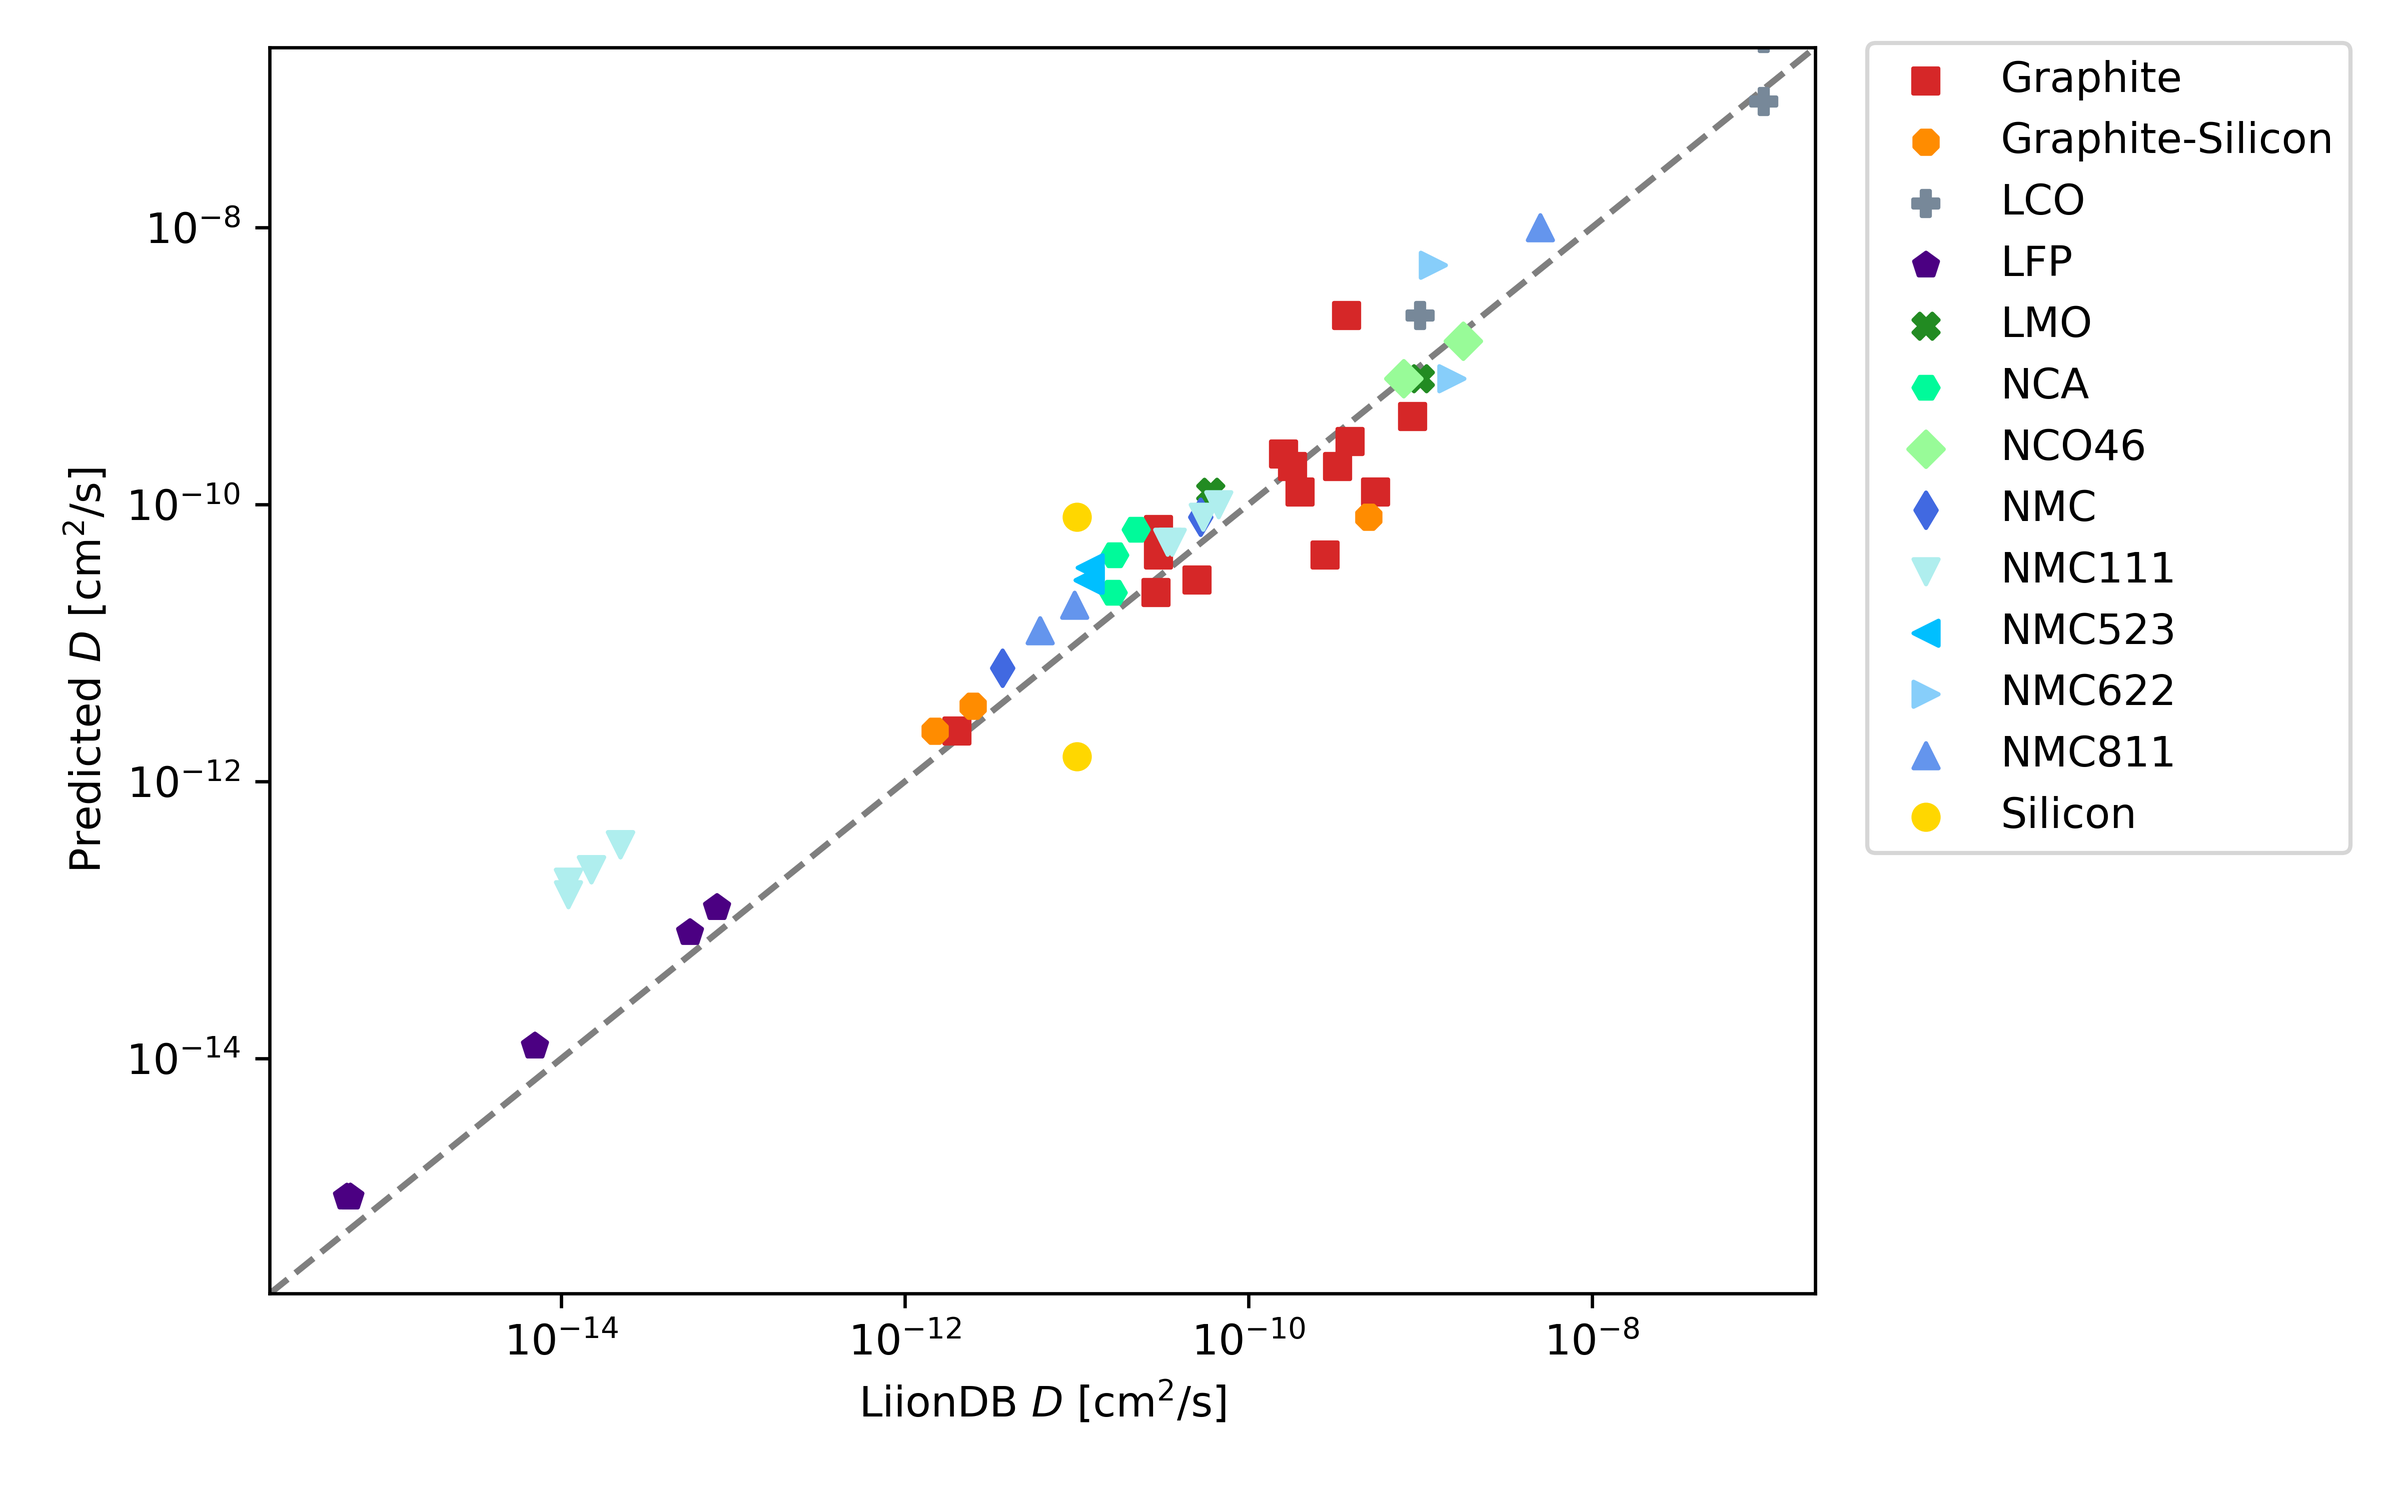
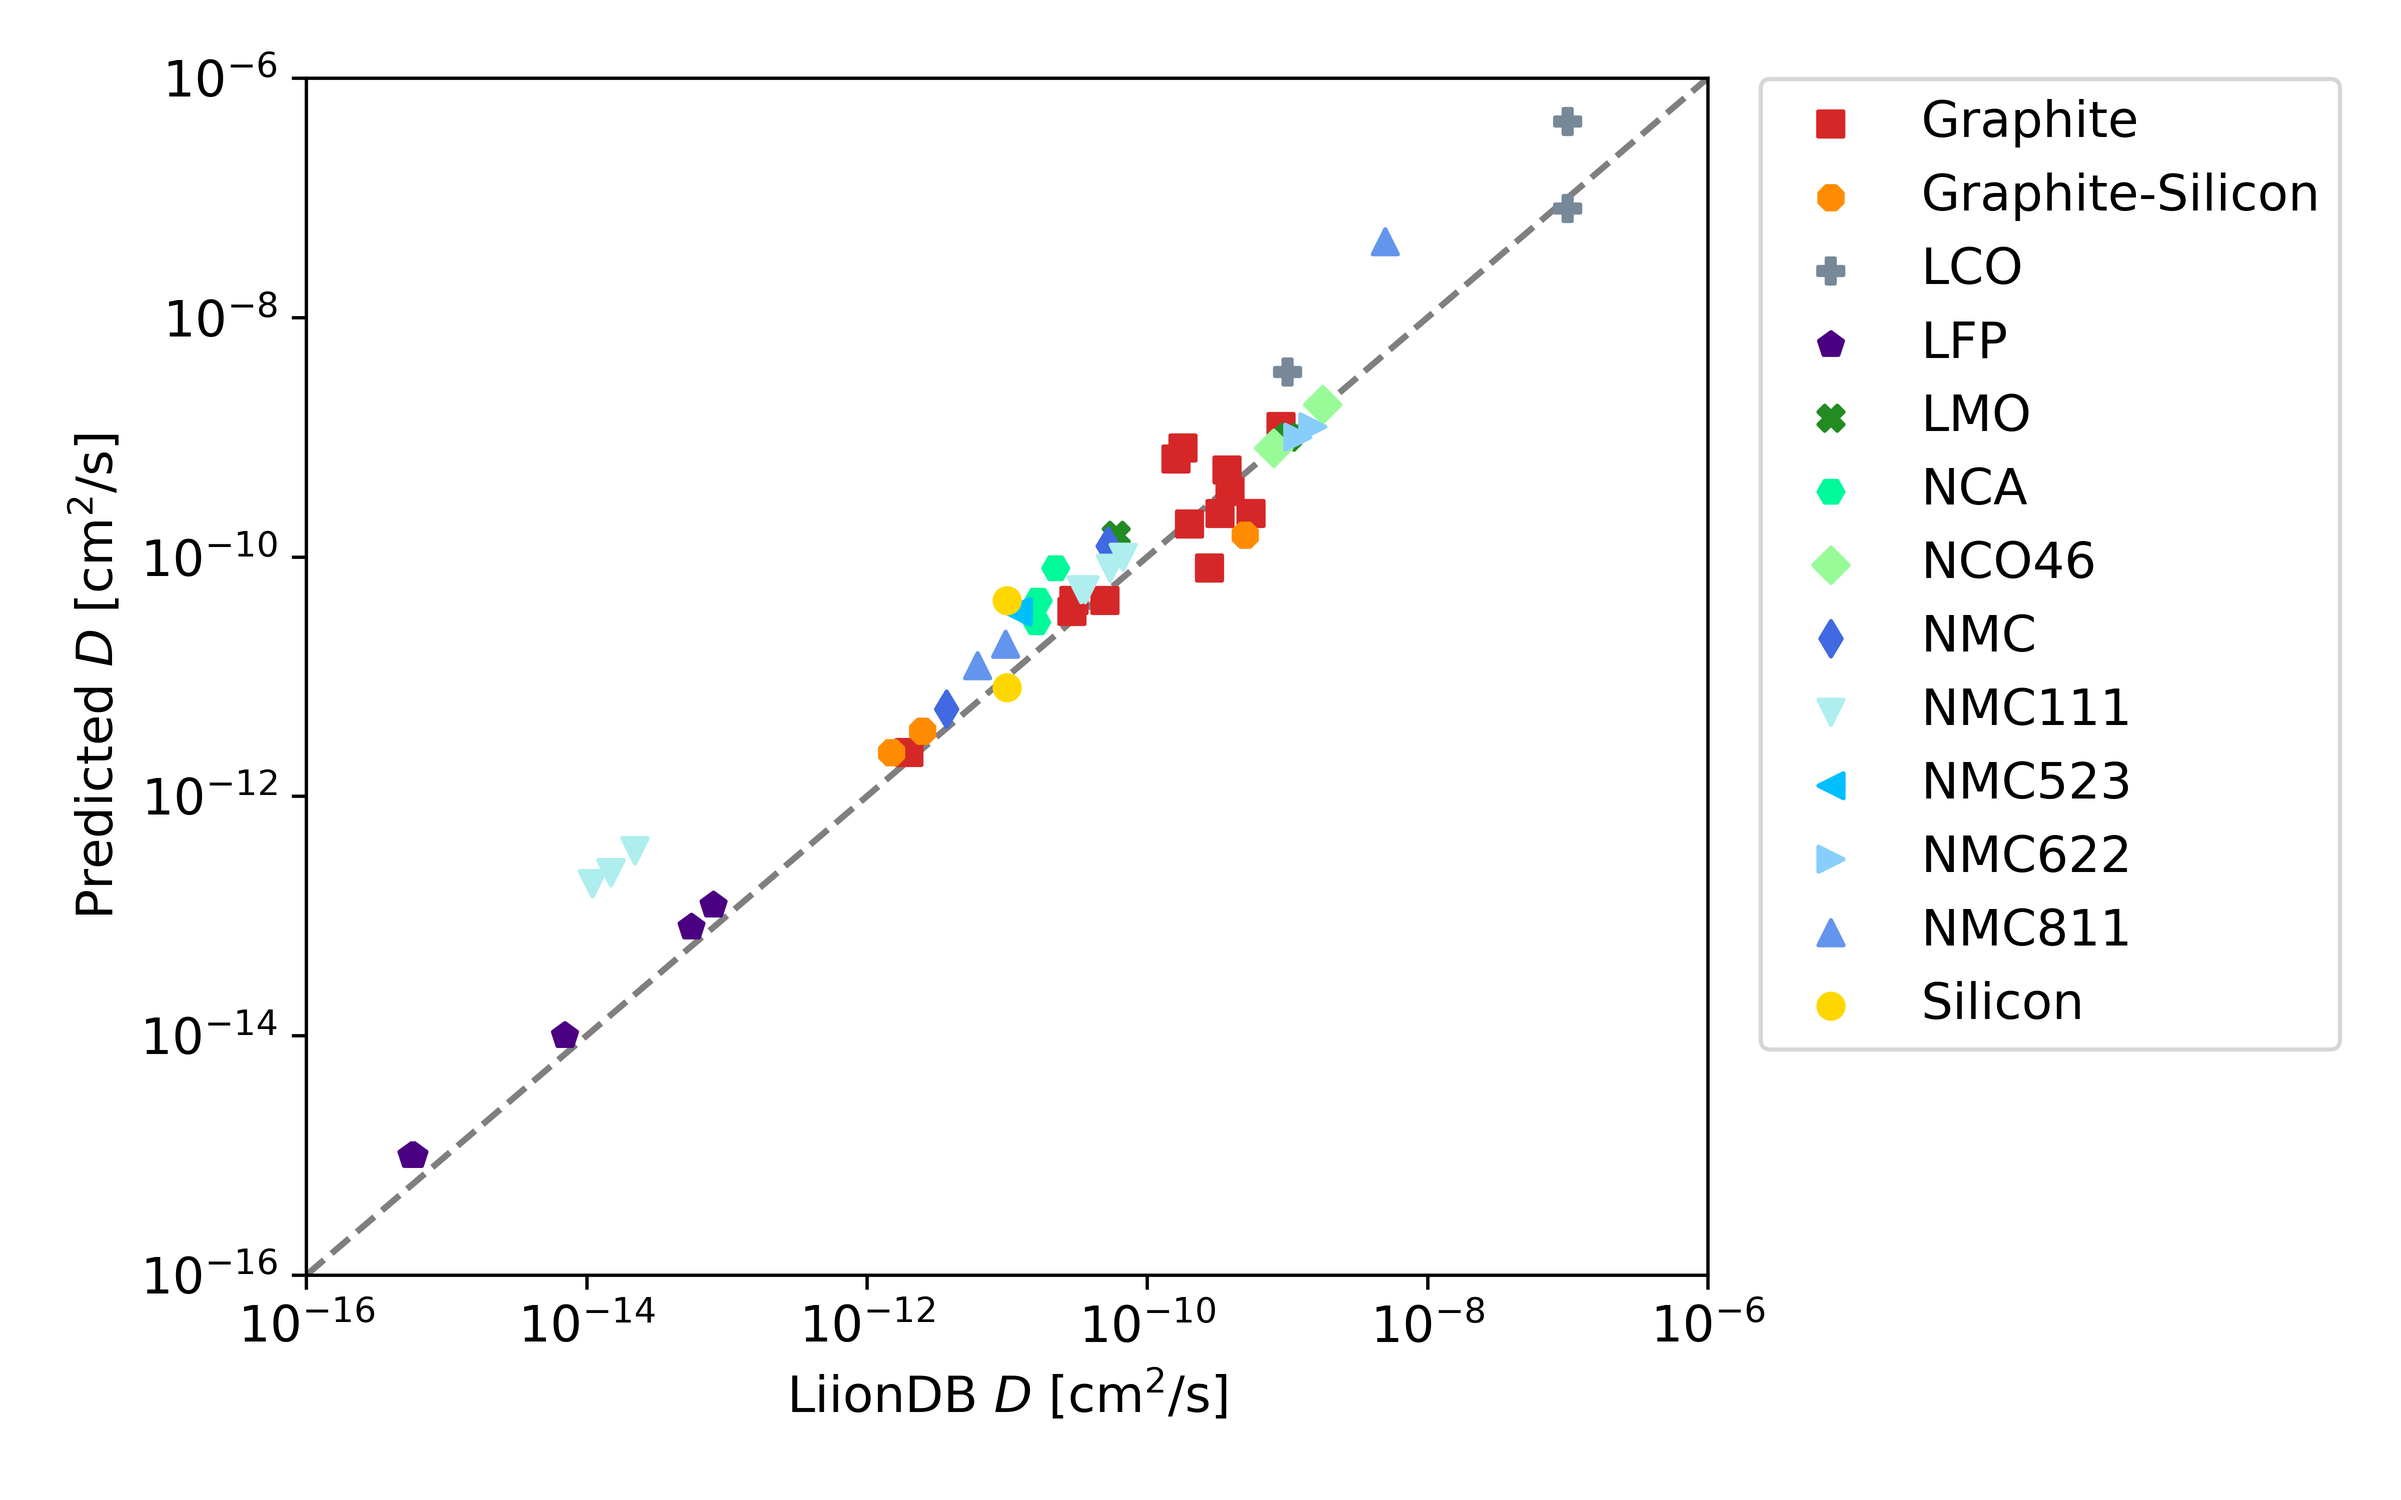
some changes in data adquisition and figures to obtain

diff --git a/api/plot.py b/api/plot.py
@@ -4,7 +4,11 @@ import glob
 import os
 import pathlib
 
+import galpynostatic as gp
+
 import matplotlib.pyplot as plt
+
+import numpy as np
 
 import pandas as pd
 
@@ -43,7 +47,9 @@ COLORS = {
 }
 
 
-def dcoeff_pred_vs_db(drange=(2e-16, 2e-7)):
+def dcoeff_pred_vs_db(drange=(1e-16, 1e-6)):
+    plt.rcParams.update({"font.size": 12})
+
     fig, ax = plt.subplots(figsize=(8, 5))
 
     df = pd.read_csv(PATH / "res" / "predictions.csv")
@@ -73,8 +79,124 @@ def dcoeff_pred_vs_db(drange=(2e-16, 2e-7)):
     fig.savefig(PATH / "res" / "predictions.png", dpi=600)
 
 
-def socmax_pred_vs_actual():
-    for fit_file in glob.glob(str(PATH / "res" / "fit-*")):
+def simulations():
+    plt.rcParams.update({"font.size": 12})
+
+    fig, axes = plt.subplots(2, 1, sharex=True, figsize=(5, 8))
+
+    for index, material, i, ax in zip(
+        ["06", "24"], ["Graphite", "LFP"], ["b", "a"], axes[::-1]
+    ):
+        df = pd.read_csv(PATH / "res" / f"_isotherm-{index}-{material}.csv")
+
+        ax.text(0.02, 1.02, f"({i}) {material}", transform=ax.transAxes)
+
+        ax.plot(
+            df.iloc[:, 0],
+            df.iloc[:, 1],
+            color=COLORS[material],
+            label="isotherm",
+        )
+
+        for i, simulation_file in enumerate(
+            glob.glob(str(PATH / "res" / f"_sim-{index}-*"))[::2]
+        ):
+            label = "C-rate simulations" if i == 0 else ""
+            df = pd.read_csv(simulation_file)
+            ax.plot(
+                df["SOC"],
+                df["Potential"],
+                color=COLORS[material],
+                ls="--",
+                alpha=0.25,
+                label=label,
+            )
+
+        ax.legend()
+
+    for ax in axes:
+        ax.set_ylabel("Potential (V)")
+
+    axes[0].set_ylim((3.2, 3.8))
+    axes[0].set_xlim((0, 1))
+
+    axes[1].set_ylim((0.07, 1.0))
+    axes[1].set_xlim((0, 1))
+    axes[1].set_xlabel("SOC")
+
+    fig.tight_layout()
+    fig.savefig(PATH / "res" / "simulations.png", dpi=600)
+
+
+def fit():
+    plt.rcParams.update({"font.size": 14})
+
+    fig, ax = plt.subplots()
+
+    for index, material in zip(["06", "24"], ["Graphite", "LFP"]):
+        df = pd.read_csv(PATH / "res" / f"_fit-{index}-{material}.csv")
+
+        ax.scatter(
+            df["c_rate"],
+            df["soc_max"],
+            marker=MARKERS[material],
+            color=COLORS[material],
+            label=f"{material} data",
+        )
+        ax.plot(
+            df["c_rate"],
+            df["soc_max_pred"],
+            color=COLORS[material],
+            label=f"{material} fit",
+        )
+
+    ax.set_xlim((1e-2, 40))
+    ax.set_xscale("log")
+    ax.set_xlabel("C-rate")
+
+    ax.set_ylim((0, 1))
+    ax.set_ylabel(r"SOC$_{\max}$")
+
+    ax.legend()
+
+    fig.tight_layout()
+    fig.savefig(PATH / "res" / "fit.png", dpi=600)
+
+
+def map():
+    plt.rcParams.update({"font.size": 14})
+
+    fig, ax = plt.subplots()
+    ax = None
+
+    particle_sizes = [0.00174, 7.3e-06]
+    dcoeffs = [3.5111704723535215e-11, 9.999939445455477e-16]
+    k0s = [9.999939445455476e-09, 2.848018622284325e-10]
+
+    C_rates = np.logspace(-2, 2).reshape(-1, 1)
+    for material, d, dcoeff, k0 in zip(
+        ["Graphite", "LFP"], particle_sizes, dcoeffs, k0s
+    ):
+        greg = gp.model.GalvanostaticRegressor(d=d)
+        greg.fit(C_rates, np.zeros(50))
+        greg.dcoeff_, greg.k0_ = dcoeff, k0
+
+        if ax is None:
+            ax = greg.plot.render_map(ax=ax, clb_label=r"SOC$_{\max}$")
+
+        ax = greg.plot.in_render_map(
+            C_rates, ax=ax, color=COLORS[material], marker=None, label=material
+        )
+
+    ax.legend(loc="upper left")
+    ax.set_xlim((-4, 1.75))
+
+    fig.tight_layout()
+    fig.savefig(PATH / "res" / "map.png", dpi=600)
+
+
+def _socmax_pred_vs_actual():
+    for fit_file in glob.glob(str(PATH / "res" / "_fit-*")):
         df = pd.read_csv(fit_file)
 
         fig, ax = plt.subplots(figsize=(7, 5))
@@ -82,10 +204,29 @@ def socmax_pred_vs_actual():
         ax.scatter(df["c_rate"], df["soc_max"])
         ax.plot(df["c_rate"], df["soc_max_pred"])
 
+        ax.set_title(fit_file)
+
         ax.set_xscale("log")
+        plt.show()
+
+
+def _isotherms():
+    for isotherm_file in glob.glob(str(PATH / "res" / "_isotherm-*")):
+        df = pd.read_csv(isotherm_file)
+
+        fig, ax = plt.subplots(figsize=(7, 5))
+
+        ax.plot(df.iloc[:, 0], df.iloc[:, 1])
+
+        ax.set_title(fit_file)
+
         plt.show()
 
 
 if __name__ == "__main__":
     dcoeff_pred_vs_db()
-    # socmax_pred_vs_actual()
+    simulations()
+    fit()
+    map()
+    # _socmax_pred_vs_actual()
+    # _isotherms()

diff --git a/api/experiment.py b/api/experiment.py
@@ -1,5 +1,8 @@
 #!/usr/bin/env python
 # -*- coding: utf-8 -*-
+import os
+import pathlib
+
 import galpynostatic as gp
 
 import numpy as np
@@ -7,6 +10,8 @@ import numpy as np
 # this will be replaced by gp.simulation.GalvanostaticProfile in a future
 # release
 from lib._simulation import GalvanostaticProfile
+
+PATH = pathlib.Path(os.path.join(os.path.abspath(os.path.dirname(__file__))))
 
 
 def maximum_socs(
@@ -16,6 +21,8 @@ def maximum_socs(
     isotherm,
     dcoeff,
     particle_size,
+    index,
+    material,
     k0=1e-7,
 ):
     soc_maxs = []
@@ -31,6 +38,11 @@ def maximum_socs(
             isotherm=isotherm,
         )
         gprof.run()
+
+        gprof.isotherm_df.to_csv(
+            PATH / "res" / f"_sim-{index:02d}-{material}-{c_rate:.4f}.csv",
+            index=False,
+        )
 
         soc_maxs.append(np.max(gprof.isotherm_df["SOC"]))
 

diff --git a/api/pipeline.py b/api/pipeline.py
@@ -23,6 +23,7 @@ def pipeline():
     c_rates = np.logspace(-2, 2)
     materials, dcoeffs_db, dcoeffs_pred, k0s_pred = [], [], [], []
     for index, sys in database.iterrows():
+
         material = sys["material"]
 
         density = gp.datasets.params.Electrode(material).density
@@ -40,6 +41,8 @@ def pipeline():
             isotherm,
             dcoeff,
             particle_size,
+            index,
+            material,
         )
 
         if soc_maxs.size == 0:
@@ -53,6 +56,9 @@ def pipeline():
             particle_size,
         )
 
+        isotherm.to_csv(
+            PATH / "res" / f"_isotherm-{index:02d}-{material}.csv", index=False
+        )
         pd.DataFrame(
             {
                 "c_rate": c_rates[: soc_maxs.size],
